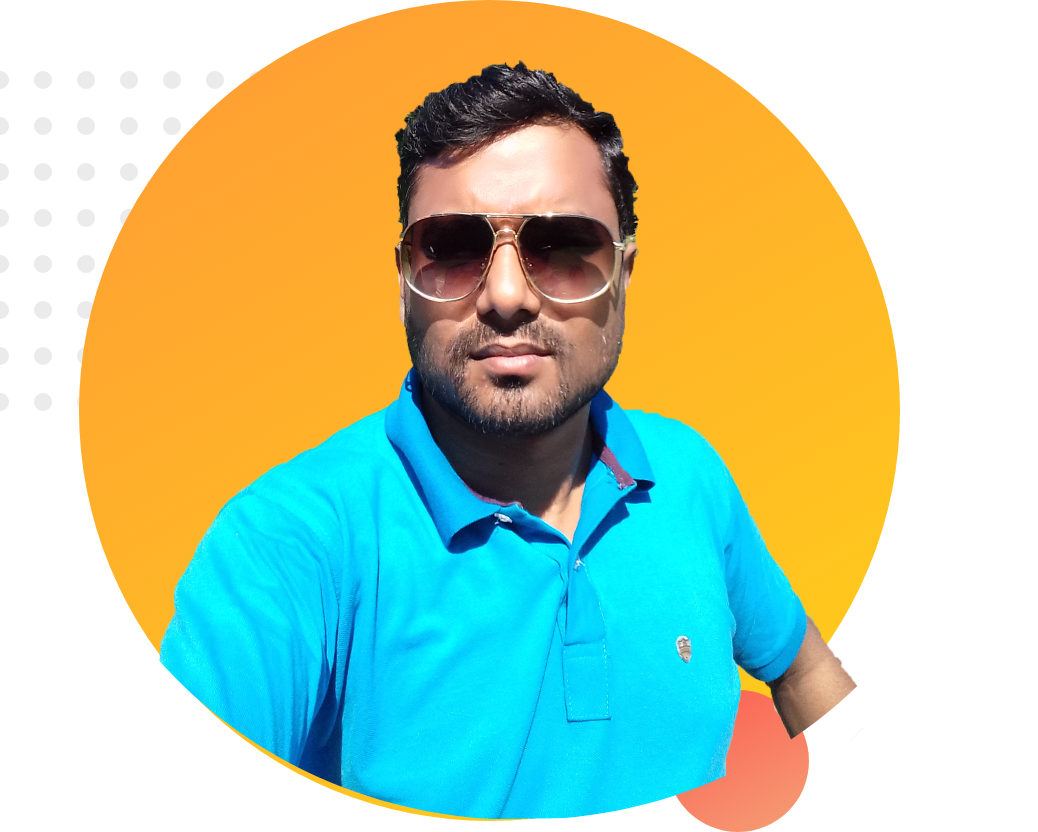
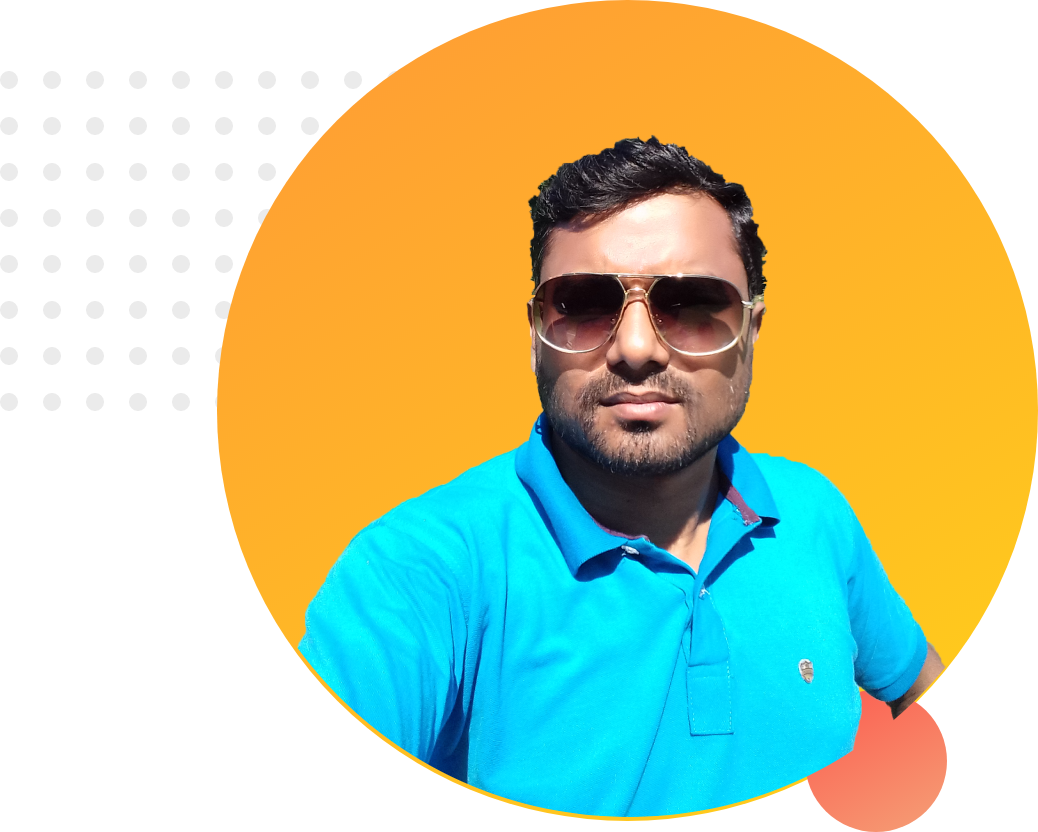
Finished my first website

diff --git a/index.html b/index.html
@@ -8,19 +8,47 @@
     <link rel="stylesheet" href="style.css">
 </head>
 <body>
-    <section>
+    <section class="top-banner">
         <div class="half-width">
             <h1>Welcome to</h1>
-        <h1><span class="name-highlight">Sajib</span> Website</h1>
+        <h1><span class="orange-highlight">Sajib</span> Website</h1>
         <h3>World-class professional web developer</h3>
         <p>You might saw me jumping, climbing and buildings and stopping trains. But no body pays me a dimo for that work.Thats why I am learning and mastering web developmnt. I will not stop untill I become the Web Development Hero.</p>
+        <a class="link-button" target="_blank" href="https://www.linkedin.com/in/sajib-sarker-623666183/">HIRE ME</a>
         </div>
         <div class="half-width">
-            <img src="images/profile.png" alt="">
+            <img src="images/profile.png" alt="Sajib">
 
         </div>
     
     </section>
+    <section class="dream-area">
+        <div class="half-width">
+            <img src="images/profile2.png" alt="Sajib2">
+        </div>
+        <div class="half-width">
+            <h2>Big Dream</h2>
+            <h3>Become a no.1 web developer.</h3>
+            <p>I already learned basic HTML, CSS  git and github. I can build any simple website. I can even teach my grandma how to make simple website. My goal is to build three simple website and learn advance topics</p>
+            <a class="link-button" target="_blank" href="https://www.linkedin.com/in/sajib-sarker-623666183/">DOWNLOAD RUSUME</a>
 
+        </div>
+    </section>
+    <section class="experiance-area">
+        <h2>Experiances</h2>
+        <div id="full-stack" class="half-width single-experiance">
+            <h2>Full Stack Web Dev</h2>
+            <h3 class="orange-highlight">2021 - Present | Pro level Web Dep</h3>
+            <p>I am the master of HTML, CSS and Javascript. I know everything needed to make a website function, efficient. I did not stop with the web. I went beyond with most popular Javascript framework called Vue JS. I even know the deployment, server and security. I will give you 100% web solution.</p>
+            </div>
+        <div id="baby-web" class="half-width single-experiance">
+        <h2>Baby Web Developer</h2>
+        <h3 class="orange-highlight">2020 - 2021 | Programming Hero Learner</h3>
+        <p>They didn't offer me a job. But I made myself as a remove web developer. I made their website  and showed it to them. They liked it. and uploaded the content. It was a great fun working at programming Hero.</p>
+        </div>
+    </section>
+    <footer>
+       <p>&copy Sajib Sarker 2021, all rights reserved.</p> 
+    </footer>
 </body>
 </html>

diff --git a/style.css b/style.css
@@ -1,19 +1,74 @@
 body{
     font-family: 'Poppins', sans-serif;
+    margin: 0px;
 }
 h1{
     font-size: 50px;
 }
-.name-highlight{
+p{
+    color: dimgray;
+}
+.orange-highlight{
     color: orange;
 }
 .half-width{
     width: 40%;
     float: left;
+    margin-left: 5%;
+    padding-left: 2%;
     
 }
 .half-width img{
     width: 100%;
-    margin-left: 5%;
-    padding-left: 2%;
+    
+}
+.top-banner{
+    background-image: url(images/top-banner.png);
+    background-repeat: no-repeat;
+    
+}
+section{
+    height: 500px;
+    padding-bottom: 150px;
+}
+.link-button{
+    text-decoration: none;
+    background-image: linear-gradient(45deg, lightSalmon, tomato);
+    padding: 10px 20px;
+    border-radius: 10px;
+    font-weight: 700;
+
+}
+.dream-area{
+    background-image: url(images/dream-bg.png);
+    background-repeat: no-repeat;
+    background-position: right;
+}
+
+.single-experiance{
+    box-shadow: 10px 10px 40px gray;
+    border-radius: 5px;
+    height: 80%;
+    background-color: white;
+
+}
+.experiance-area{   
+    background-image: url(images/exp-bg.png);
+    background-repeat: no-repeat;
+    background-position: left;
+
+}
+#full-stack{
+    border-left: 7px solid;
+    border-image: linear-gradient(lightSalmon, tomato);
+    border-image-slice: 1;
+}
+#baby-web{
+    border-left: 7px solid;
+    border-image: linear-gradient(180deg,blue, cyan);
+    border-image-slice: 1;
+}
+footer p{
+    text-align: center;
+    font-size: 12px;
 }
